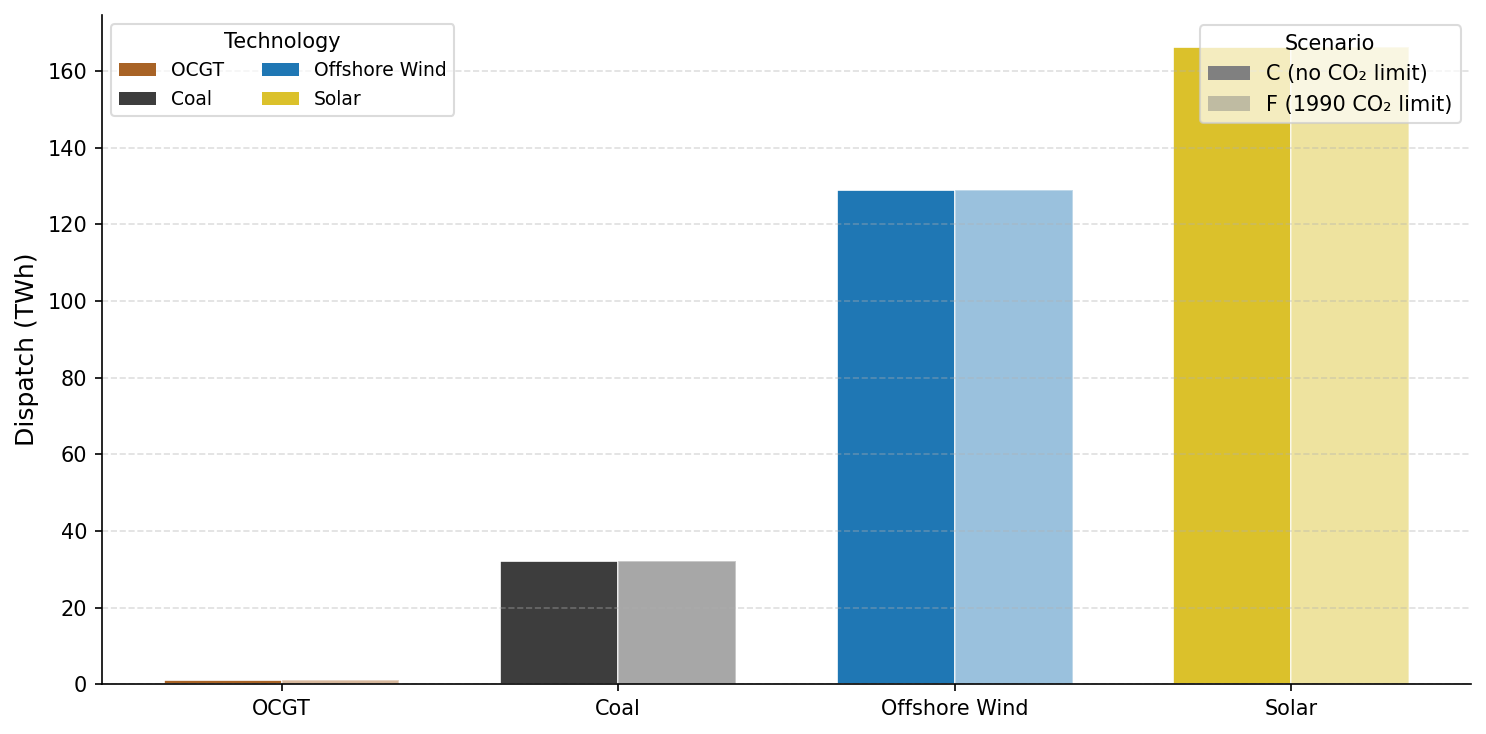
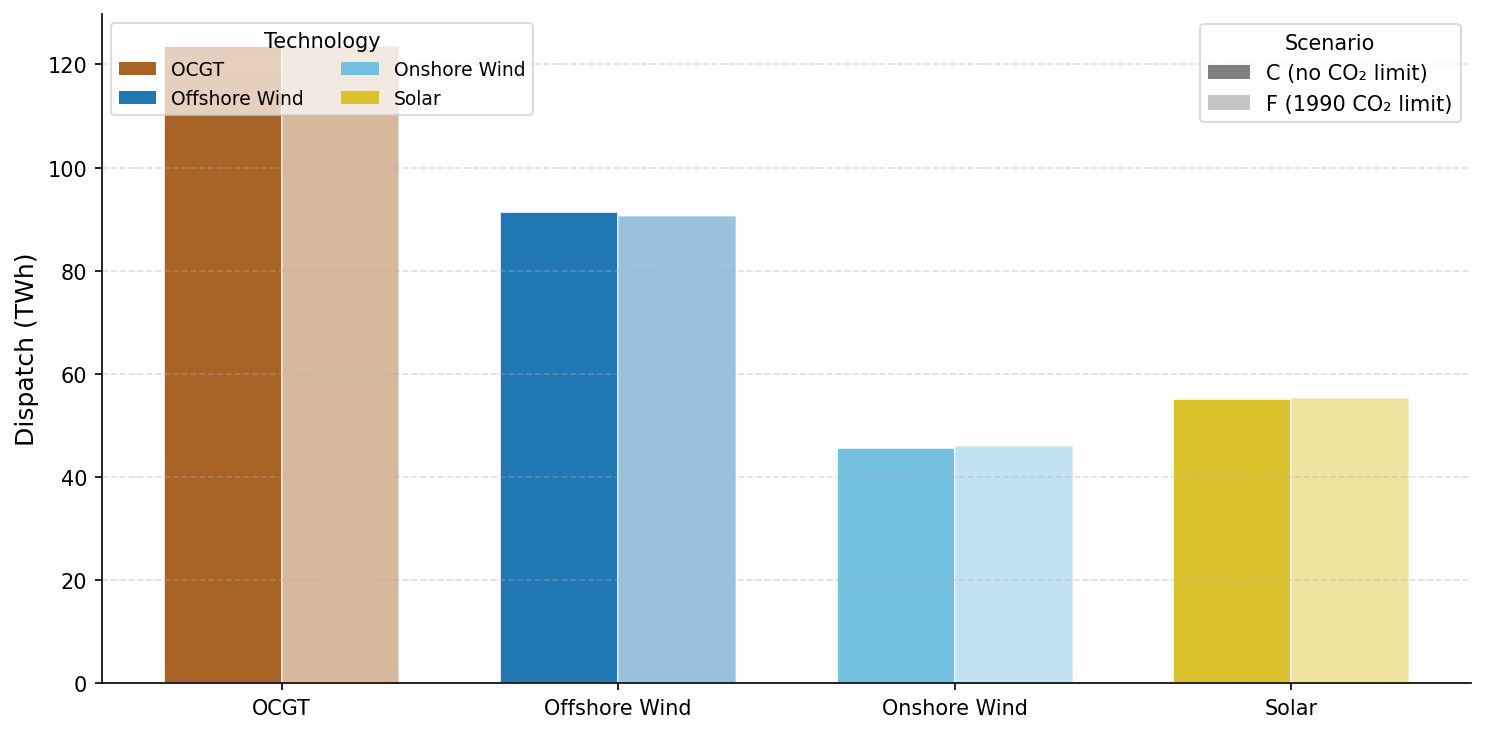
let f run and stored results

diff --git a/main.py b/main.py
@@ -72,43 +72,43 @@ CONFIG_J = copy.deepcopy(CONFIG_I)
 # export_results_to_json(network_a.network, "task_a", CONFIG_A["years"][0]) 
 
 # TASK B
-input_data_b = InputHandler(CONFIG_B)
-networks = {}
-capacity_by_tech = {} # CHANGE: added capacity per year for the plot of each technology
+# input_data_b = InputHandler(CONFIG_B)
+# networks = {}
+# capacity_by_tech = {} # CHANGE: added capacity per year for the plot of each technology
 
-for year in CONFIG_B["years"]:
-    network_b = NetworkBuilder(CONFIG_B, input_data_b, year)
-    networks[year] = network_b
+# for year in CONFIG_B["years"]:
+#     network_b = NetworkBuilder(CONFIG_B, input_data_b, year)
+#     networks[year] = network_b
 
-    export_results_to_json(
-        network_b.network,
-        "task_b",
-        year
-    )
+#     export_results_to_json(
+#         network_b.network,
+#         "task_b",
+#         year
+#     )
 
-    # --- GENERATORS (solar, wind, coal, nuclear)
-    for gen in network_b.network.generators.index:
-        cap = network_b.network.generators.loc[gen, "p_nom_opt"]
-        capacity_by_tech.setdefault(gen, []).append(cap)
+#     # --- GENERATORS (solar, wind, coal, nuclear)
+#     for gen in network_b.network.generators.index:
+#         cap = network_b.network.generators.loc[gen, "p_nom_opt"]
+#         capacity_by_tech.setdefault(gen, []).append(cap)
 
-    # --- LINKS (CCGT, OCGT, CHP, etc)
-    for link in network_b.network.links.index:
-        cap = network_b.network.links.loc[link, "p_nom_opt"]
-        capacity_by_tech.setdefault(link, []).append(cap)
+#     # --- LINKS (CCGT, OCGT, CHP, etc)
+#     for link in network_b.network.links.index:
+#         cap = network_b.network.links.loc[link, "p_nom_opt"]
+#         capacity_by_tech.setdefault(link, []).append(cap)
 
-print("\nCAPACITY_BY_TECH")
-for tech, vals in capacity_by_tech.items():
-    print(tech, vals)
+# print("\nCAPACITY_BY_TECH")
+# for tech, vals in capacity_by_tech.items():
+#     print(tech, vals)
 
-visualizer_b = Visualizer(networks[CONFIG_B["years"][0]].network, scenario_name="b")
-visualizer_b.capacity_dict = capacity_by_tech
-visualizer_b.plot_sensitivity_capacity_to_weather_years()
-visualizer_cf = Visualizer(networks[CONFIG_B["years"][0]].network, scenario_name="b")
-visualizer_cf.plot_capacity_factors(input_data_b)
+# visualizer_b = Visualizer(networks[CONFIG_B["years"][0]].network, scenario_name="b")
+# visualizer_b.capacity_dict = capacity_by_tech
+# visualizer_b.plot_sensitivity_capacity_to_weather_years()
+# visualizer_cf = Visualizer(networks[CONFIG_B["years"][0]].network, scenario_name="b")
+# visualizer_cf.plot_capacity_factors(input_data_b)
 
-# TASK C
-# input_data_c = InputHandler(CONFIG_C)
-# network_c = NetworkBuilder(CONFIG_C, input_data_c, CONFIG_C["years"][0])
+## TASK C
+input_data_c = InputHandler(CONFIG_C)
+network_c = NetworkBuilder(CONFIG_C, input_data_c, CONFIG_C["years"][0])
 # visualizer_c = Visualizer(network_c.network, scenario_name = 'c')
 # visualizer_c.plot_dispatch_time_series(pd.Timestamp("2023-07-01"), pd.Timestamp("2023-12-01"))
 # visualizer_c.plot_dispatch_diff_time_series(
@@ -137,58 +137,58 @@ visualizer_cf.plot_capacity_factors(input_data_b)
 # export_results_to_json(network_d.network, "task_d", CONFIG_D["years"][0])
 
 # TASK F
-# input_data_f = InputHandler(CONFIG_F)
-# REF_CO2 = CONFIG_F["global_CO2_limit"]
+input_data_f = InputHandler(CONFIG_F)
+REF_CO2 = CONFIG_F["global_CO2_limit"]
 
-# networks_f = {}
-# for percent in np.arange(1, 0, -0.1):
-#     co2_limit = percent * REF_CO2
-#     CONFIG_F["global_CO2_limit"] = co2_limit
-#     network_f = NetworkBuilder(CONFIG_F, input_data_f, CONFIG_F["years"][0])
-#     networks_f[round(percent, 2)] = network_f
+networks_f = {}
+for percent in np.arange(1, 0, -0.1):
+    co2_limit = percent * REF_CO2
+    CONFIG_F["global_CO2_limit"] = co2_limit
+    network_f = NetworkBuilder(CONFIG_F, input_data_f, CONFIG_F["years"][0])
+    networks_f[round(percent, 2)] = network_f
 
-#     n = network_f.network
+    n = network_f.network
 
-#     print("\nCO2 TEST")
-#     print("percent:", round(percent, 2))
-#     print("cap:", co2_limit)
-#     print("objective:", n.objective)
+    print("\nCO2 TEST")
+    print("percent:", round(percent, 2))
+    print("cap:", co2_limit)
+    print("objective:", n.objective)
 
-#     if "CO2Limit" in n.model.constraints:
-#         dual = n.model.constraints["CO2Limit"].dual
-#         print("CO2 shadow price / mu:", dual)
-#     else:
-#         print("CO2Limit NOT FOUND in model constraints")
+    if "CO2Limit" in n.model.constraints:
+        dual = n.model.constraints["CO2Limit"].dual
+        print("CO2 shadow price / mu:", dual)
+    else:
+        print("CO2Limit NOT FOUND in model constraints")
 
-# results_f = {}
+results_f = {}
 
-# for percent, net in networks_f.items():
-#     n = net.network
+for percent, net in networks_f.items():
+    n = net.network
 
-#     results_f[percent] = {
-#         "objective": n.objective,
-#         "co2_shadow_price": abs(n.model.constraints["CO2Limit"].dual.item())
-#     }
+    results_f[percent] = {
+        "objective": n.objective,
+        "co2_shadow_price": abs(n.model.constraints["CO2Limit"].dual.item())
+    }
 
-# os.makedirs("results/numerical_results", exist_ok=True)
-# with open("results_task_f.json", "w") as f:
-#     json.dump(results_f, f, indent=4)
+os.makedirs("results/numerical_results", exist_ok=True)
+with open("results_task_f.json", "w") as f:
+    json.dump(results_f, f, indent=4)
 
-# # grouped bar chart: C vs F at 100%
-# visualizer_c = Visualizer(network_c.network, scenario_name="c")
-# visualizer_f = Visualizer(networks_f[max(networks_f.keys())].network, scenario_name="f")
-# visualizer_f.plot_scenario_comparison(
-#     other=visualizer_c,
-#     self_label="C (no CO₂ limit)",
-#     other_label="F (1990 CO₂ limit)",
-#     name="comparison_c_vs_f",
-# )
-# # sensitivity plot
-# visualizer_f.plot_co2_sensitivity(
-#     networks_f=networks_f,
-#     ref_co2=REF_CO2,
-#     name="co2_sensitivity",
-# )
+# grouped bar chart: C vs F at 100%
+visualizer_c = Visualizer(network_c.network, scenario_name="c")
+visualizer_f = Visualizer(networks_f[max(networks_f.keys())].network, scenario_name="f")
+visualizer_f.plot_scenario_comparison(
+    other=visualizer_c,
+    self_label="C (no CO₂ limit)",
+    other_label="F (1990 CO₂ limit)",
+    name="comparison_c_vs_f",
+)
+# sensitivity plot
+visualizer_f.plot_co2_sensitivity(
+    networks_f=networks_f,
+    ref_co2=REF_CO2,
+    name="co2_sensitivity",
+)
 
 # # TASK G
 # input_data_g = InputHandler(CONFIG_G)
